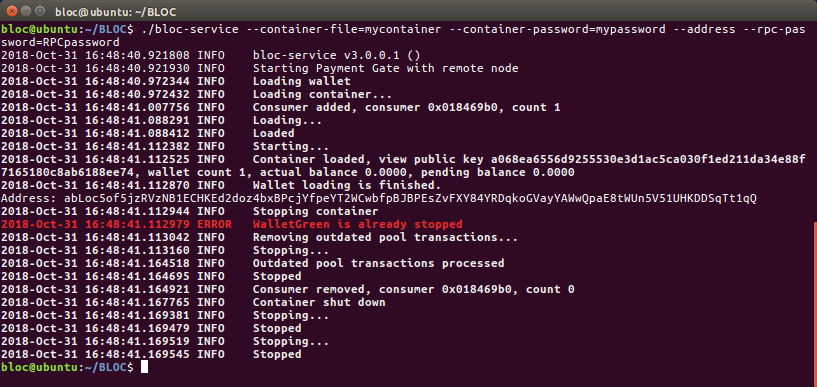
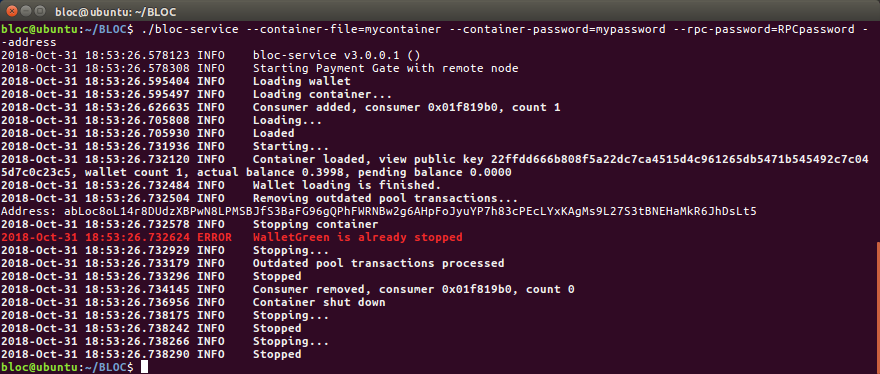
Work in progress.

Changed region(s): [[0.0, 0.0, 1.0, 1.0], [0.9792, 0.5882, 1.0, 0.6471]]

diff --git a/docs/API/BLOC-service.md b/docs/API/BLOC-service.md
@@ -169,10 +169,17 @@ Display the current version of bloc-service
 ![--help](images/bloc-service/--version.png)
 
 
+## Command line arguments
+
+All the following command line options and arguments must be used when start **bloc-service**
+
+* You can use them directly in the command line and provided examples
+* Or you can use them in the config file which is the best option
+
 ### --bind-address arg (=127.0.0.1)
 
 * Interface for bloc-service RPC
-* Started by default on 127.0.0.1 when running `./bloc-service --config=mycontainer.conf`
+* Started by default on 127.0.0.1 when running either you specified it `./bloc-service --config=myconf.conf`
 * If you want to use local only : 127.0.0.1
 * if you want to open to public : 0.0.0.0d)
 * More details about the [JSON bloc-service API](../wallet-rpc-api.md)
@@ -180,20 +187,20 @@ Display the current version of bloc-service
 #### Exemple
 
 ```
-./bloc-service --config=mycontainer.conf --bind-address=127.0.0.1
+./bloc-service --bind-address=127.0.0.1 --container-file=mycontainer --container-password=mypassword --rpc-password=RPCpassword
 ```
 
 ### --bind-port arg (=8070)
 
 * Port for bloc-service RPC
-* Started by default on 8070 when running `./bloc-service --config=mycontainer.conf`
-* You can change the port here
+* Started by default on 8070 when running either you specified it `./bloc-service --config=myconf.conf`
+* You can change the port here for ex 8071
 * More details about the [JSON bloc-service API](../wallet-rpc-api.md)
 
 #### Exemple
 
 ```
-./bloc-service --config=mycontainer.conf --bind-port=8070
+./bloc-service --bind-port=8071 --container-file=mycontainer --container-password=mypassword --rpc-password=RPCpassword
 ```
 
 ### --rpc-password
@@ -203,7 +210,7 @@ Setup the rpc password to connect to bloc-service
 #### Exemple
 
 ```
-./bloc-service --config=mycontainer.conf --rpc-password=RPCpassword
+./bloc-service --container-file=mycontainer --container-password=mypassword --rpc-password=RPCpassword
 ```
 
 ### --rpc-legacy-security arg (=8070)
@@ -214,7 +221,7 @@ Setup the rpc password to connect to bloc-service
 #### Exemple
 
 ```
-./bloc-service --config=mycontainer.conf --rpc-legacy-security
+./bloc-service --container-file=mycontainer --container-password=mypassword --rpc-legacy-security
 ```
 
 ### --container-file=(arg)
@@ -248,12 +255,10 @@ Setup the rpc password to connect to bloc-service
 * Create a txt file with your favorite text editor and open it.
 * Check all your required parameters and enter them like in this exemple
 * You need to type the arguments without the '--'
-* Place this file next to BLOCd
-* Save it under the name `mycontainer.conf`
 
 **Expected results**
 
-![conf](images/bloc-service/conf.png)
+![conf](images/bloc-service/myconf.png)
 
 #### Example
 
@@ -263,10 +268,14 @@ container-password = mypassword
 daemon-address = 127.0.0.1
 daemon-port = 2086
 bind-port = 8070
-bind-address = 0.0.0.0
+bind-address = 127.0.0.1
 rpc-password = RPCpassword
 ```
-![Download Example](images/bloc-service/mycontainer.conf)
+
+[Download Example](images/bloc-service/myconf.conf)
+
+* Place this file next to BLOCd
+* Save it under the name `myconf.conf`
 
 **Expected results**
 
@@ -307,19 +316,24 @@ If the operation was successful you will get a corresponding message with your n
 * The command below launches **bloc-service** RPC Wallet with a specific config file:
 
 ```
-./bloc-service --config=mycontainer.conf
+./bloc-service --config=myconf.conf
 ```
 
-* You may specify BLOC config directly through console arguments. Here is the same example as above in console: 
+* You may specify BLOC config directly through console arguments. Here is the same config file as above in console: 
 
 ```
-./bloc-service --container-file=mycontainer --container-password=mypassword --daemon-address=127.0.0.1 --daemon-port=2086 --bind-address=0.0.0.0 --bind-port=8070 --rpc-password=RPCpassword 
+./bloc-service --container-file=mycontainer --container-password=mypassword --daemon-address=127.0.0.1 --daemon-port=2086 --bind-address=127.0.0.1 --bind-port=8070 --rpc-password=RPCpassword 
 ```
 
 **Expected results**
 
+Start with command line:
+
 ![start bloc-service](images/bloc-service/start.png)
 
+Start with myconf.conf:
+
+![start bloc-service](images/bloc-service/start-conf.png)
 
 ## Restore a existing BLOC wallet with bloc-service
 
@@ -332,6 +346,7 @@ If you were using Walletd that come with the previous version of BLOC, the previ
 * Copy the your previous configuration file `yourfile.conf` and copy the acual container file `mycontainer`
 * Paste this 2 files next to the new `bloc-service` and `BLOCd`
 * Open `yourfile.conf` 
+* Make sure you remove this line `testnet = no` we are not using this field anymore
 * Edit like this:
 
 ```
@@ -339,12 +354,14 @@ container-file = mycontainer
 container-password = mypassword
 daemon-port = 2086
 bind-port = 8070
-bind-address = 0.0.0.0
+bind-address = 127.0.0.1
 rpc-password = RPCpassword
 ```
 * Save the file
 * Start `bloc-service` using this configuration file
-* Your wallet and sub-wallets are now restored
+* ```./bloc-service --config=myconf.conf```
+* Please wait until the synchronisation is complete
+* Your wallet is ready to be used with the **bloc-service** RPC API.
 
 **Expected results**
 
@@ -359,14 +376,14 @@ If you already have a [BLOC Wallet](../wallet/Making-a-Wallet.md) you must know 
 * Check all your required parameters and enter them like in this exemple
 * You need to type the arguments without the '--'
 * Place this file next to BLOCd
-* Save it under the name `mycontainer.conf`
+* Save it under the name `myconf.conf`
 
 ```
 container-file = mycontainer
 container-password = mypassword
 daemon-port = 2086
 bind-port = 8070
-bind-address = 0.0.0.0
+bind-address = 127.0.0.1
 rpc-password = RPCpassword
 ```
 * Save the file
@@ -392,16 +409,22 @@ Example:
 * Start `bloc-service` using your configuration file
 
 ```
-./bloc-service --config=mycontainer.conf
+./bloc-service --config=myconf.conf
 ```
 
 * Your wallet is now loaded
 * Please wait until the synchronisation is complete
+
+**Expected results**
+
+![wallet loading after restore private key](images/bloc-service/wallet-loading-after-restore-private-key.png)
+
+
 * Your wallet is ready to be used with the **bloc-service** RPC API.
 
 **Expected results**
 
-![wallet ready for bloc-service](images/bloc-service/wallet-ready-bloc-service-restore-prviate-keys.png)
+![wallet ready after restore private key](images/bloc-service/wallet-ready-after-restore-prviate-keys.png)
 
 
 ### Using your mnemonic-seed
@@ -445,7 +468,7 @@ Example:
 * Start `bloc-service` using your configuration file
 
 ```
-./bloc-service --config=mycontainer.conf
+./bloc-service --config=myconf.conf
 ```
 * Your wallet is now loaded
 * Please wait until the synchronisation is complete
@@ -466,7 +489,7 @@ Example:
 Start `bloc-service` to display the 1st wallet address in the container and exit
 
 ```
-./bloc-service --container-file=mycontainer --container-password=mypassword --address --rpc-password=RPCpassword
+./bloc-service --container-file=mycontainer --container-password=mypassword --rpc-password=RPCpassword --address
 ```
 
 **Expected results**
